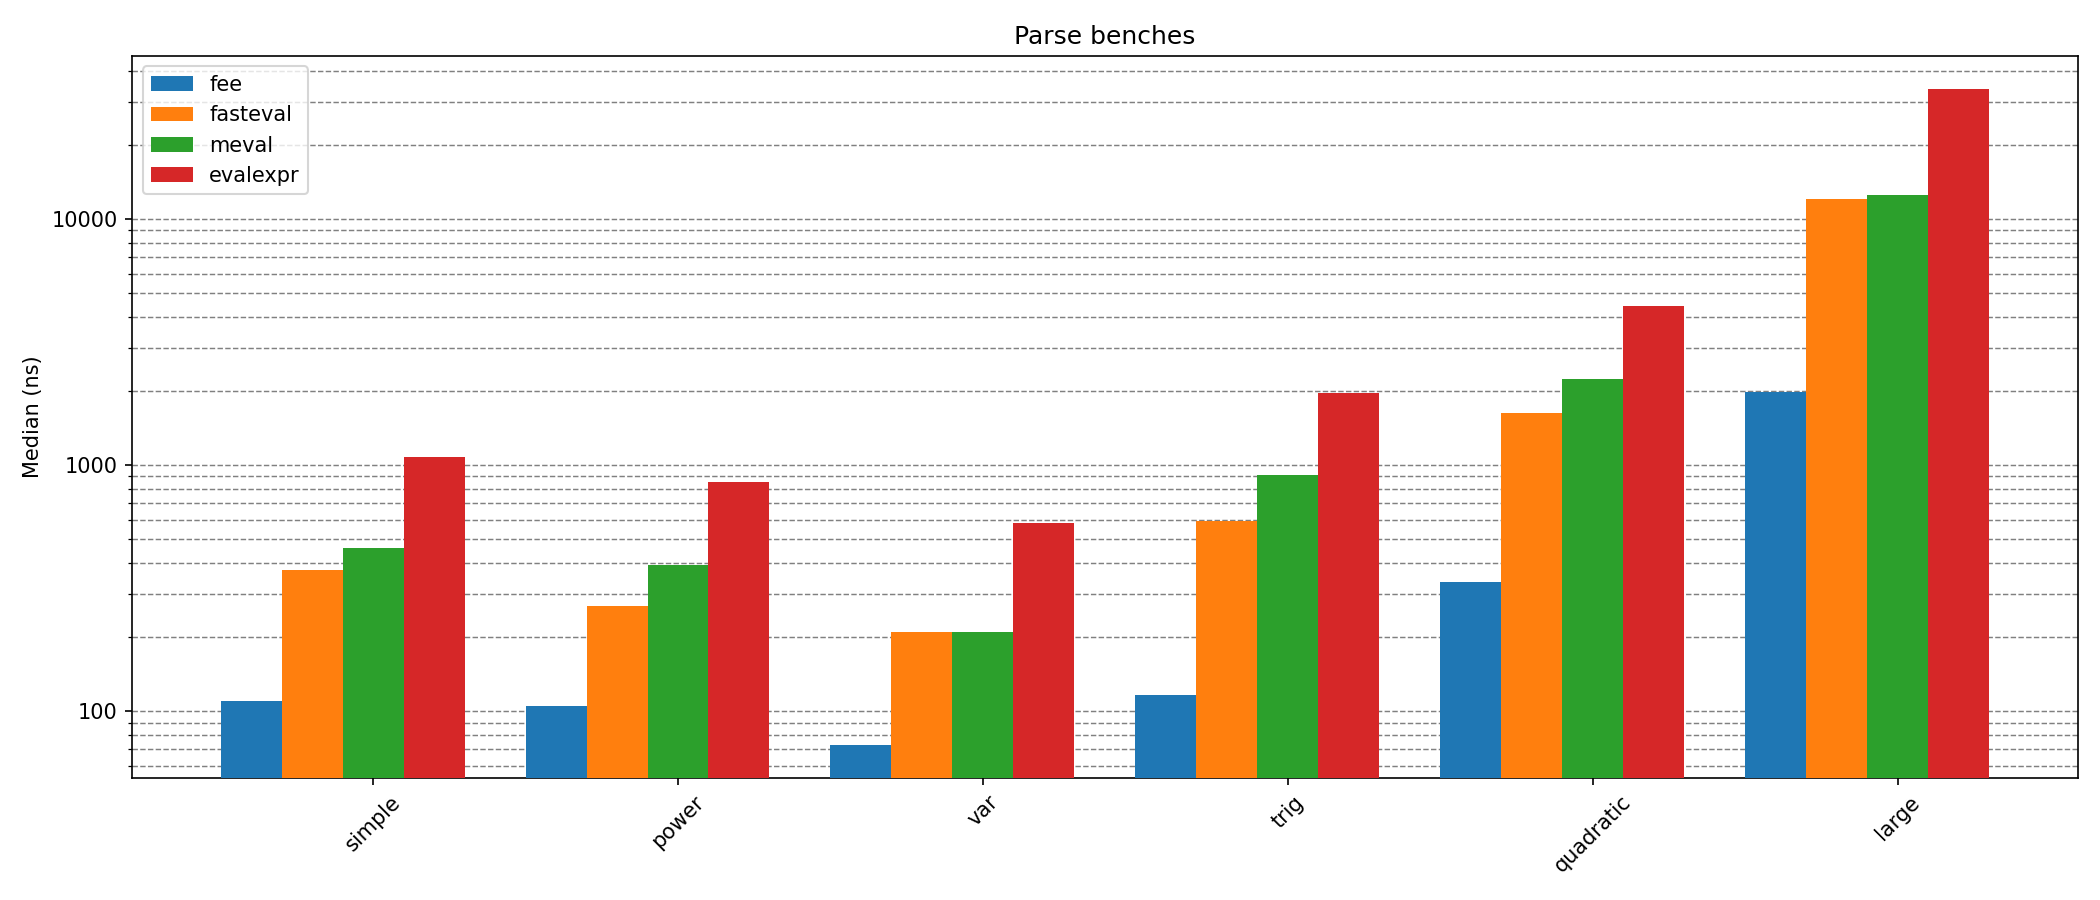
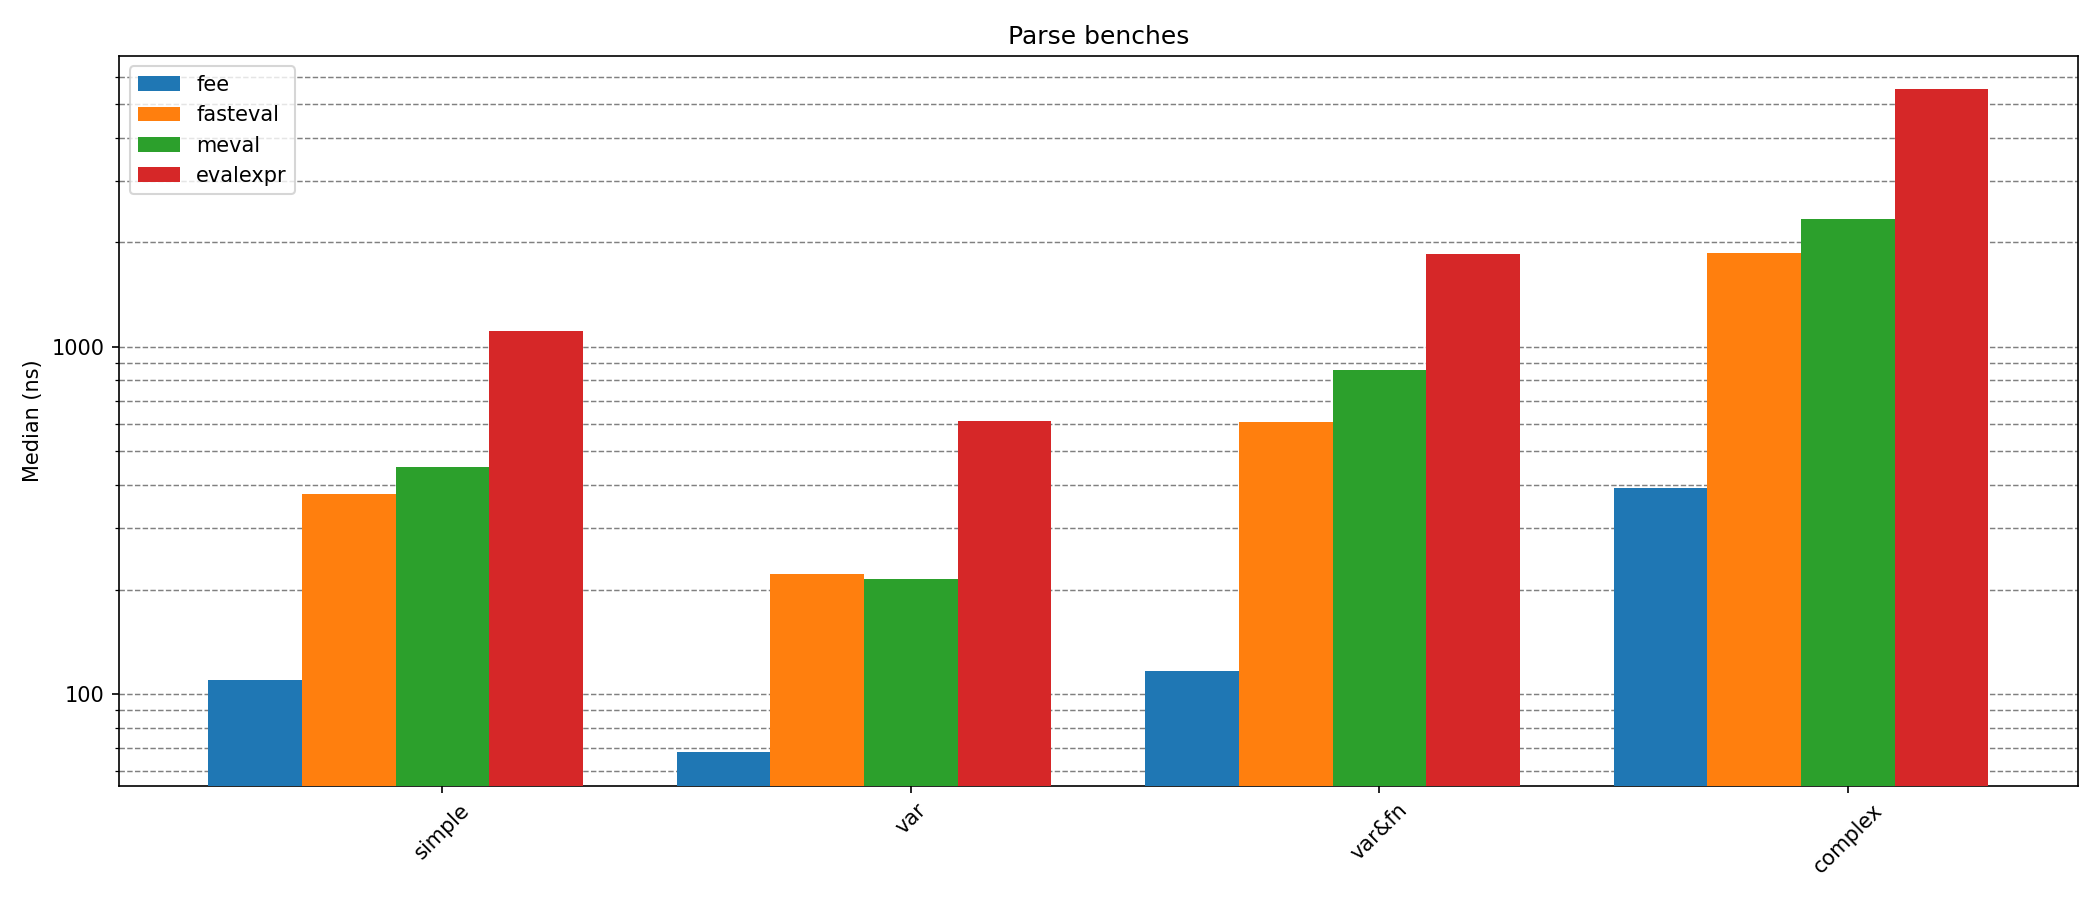
better cmp benched

diff --git a/benches/bench_cmp.rs b/benches/bench_cmp.rs
@@ -6,19 +6,16 @@ use fasteval::{Compiler, Evaler};
 use fee::{IndexedResolver, UContext, prelude::*};
 
 static SIMPLE_EXPR: &str = "3 * 3 - 3 / 3";
-static POWER_EXPR: &str = "2 ^ 3 ^ 4";
-static VAR_EXPR: &str = "x0 * 2";
-static TRIG_EXPR: &str = "s0(x0) + c0(x0)";
-static QUADRATIC_EXPR: &str = "(-x2 + (x2^2 - 4*x0*x1)^0.5) / (2*x0)";
-static LARGE_EXPR: &str = "((((87))) - 73) + (97 + (((15 / 55 * ((31)) + 35))) + (15 - (9)) - (39 / 26) / 20 / 91 + 27 / (33 * 26 + 28 - (7) / 10 + 66 * 6) + 60 / 35 - ((29) - (69) / 44 / (92)) / (89) + 2 + 87 / 47 * ((2)) * 83 / 98 * 42 / (((67)) * ((97))) / (34 / 89 + 77) - 29 + 70 * (20)) + ((((((92))) + 23 * (98) / (95) + (((99) * (41))) + (5 + 41) + 10) - (36) / (6 + 80 * 52 + (90))))";
+static V_EXPR: &str = "x0 * 2";
+static VF_EXPR: &str = "s0(x0) + c0(x0)";
+static COMPLEX_EXPR: &str = "(-x2 + s0(x2 ^ 2 - 4 * x0 * x1) ^ 0.5) / c0(2 * x0)";
 
 fn fee_context() -> UContext<
     IndexedResolver<Unlocked, f64>,
     IndexedResolver<Unlocked, ExprFn>,
     IndexedResolver<Locked, f64>,
     IndexedResolver<Locked, ExprFn>,
->
-{
+> {
     let mut v = IndexedResolver::new();
     v.add_id('x', 3);
     v.set('x', 0, 1.0);
@@ -27,29 +24,28 @@ fn fee_context() -> UContext<
 
     let mut f = IndexedResolver::new();
     f.add_id('s', 1);
-    f.set('s', 0, ExprFn::new(|args| args[0].sin())); // sin
+    f.set('s', 0, ExprFn::new(|args| args[0]));
     f.add_id('c', 1);
-    f.set('c', 0, ExprFn::new(|args| args[0].cos())); // cos
+    f.set('c', 0, ExprFn::new(|args| args[0]));
 
     Context::new(v, f)
 }
 
-fn evalexpr_context() -> HashMapContext<DefaultNumericTypes>
-{
+fn evalexpr_context() -> HashMapContext<DefaultNumericTypes> {
     let context: HashMapContext<DefaultNumericTypes> = context_map! {
         "x0" => float 1,
         "x1" => float 2,
         "x2" => float 3,
         "s0" => Function::new(|argument| {
             if let Ok(float) = argument.as_float() {
-                Ok(Value::Float((float as f64).sin()))
+                Ok(Value::Float(float))
             } else {
                 Err(EvalexprError::expected_number(argument.clone()))
             }
         }),
         "c0" => Function::new(|argument| {
             if let Ok(float) = argument.as_float() {
-                Ok(Value::Float((float as f64).cos()))
+                Ok(Value::Float(float))
             } else {
                 Err(EvalexprError::expected_number(argument.clone()))
             }
@@ -60,24 +56,22 @@ fn evalexpr_context() -> HashMapContext<DefaultNumericTypes>
     context
 }
 
-fn meval_context() -> meval::Context<'static>
-{
+fn meval_context() -> meval::Context<'static> {
     let mut ctx = meval::Context::empty();
     ctx.var("x0", 1.0);
     ctx.var("x1", 2.0);
     ctx.var("x2", 3.0);
 
-    ctx.func("s0", |x| x.sin());
-    ctx.func("c0", |x| x.cos());
+    ctx.func("s0", |x| x);
+    ctx.func("c0", |x| x);
 
     ctx
 }
 
-fn fasteval_namespace() -> fasteval::StrToCallbackNamespace<'static>
-{
+fn fasteval_namespace() -> fasteval::StrToCallbackNamespace<'static> {
     let mut ns = fasteval::StrToCallbackNamespace::new();
-    ns.insert("s0", Box::new(|x| x[0].sin()));
-    ns.insert("c0", Box::new(|x| x[0].cos()));
+    ns.insert("s0", Box::new(|x| x[0]));
+    ns.insert("c0", Box::new(|x| x[0]));
 
     ns.insert("x0", Box::new(|_| 1.0));
     ns.insert("x1", Box::new(|_| 2.0));
@@ -86,8 +80,7 @@ fn fasteval_namespace() -> fasteval::StrToCallbackNamespace<'static>
     ns
 }
 
-fn bench_parse(c: &mut Criterion, name: &str, expr: &str)
-{
+fn bench_parse(c: &mut Criterion, name: &str, expr: &str) {
     // evalexpr
     c.bench_function(&format!("cmp/parse/evalexpr/{}", name), |b| {
         use evalexpr::*;
@@ -117,8 +110,7 @@ fn bench_parse(c: &mut Criterion, name: &str, expr: &str)
 }
 
 // ----------------- EVALUATION -----------------
-fn bench_eval(c: &mut Criterion, name: &str, expr: &str)
-{
+fn bench_eval(c: &mut Criterion, name: &str, expr: &str) {
     // evalexpr
     c.bench_function(&format!("cmp/eval/evalexpr/{}", name), |b| {
         use evalexpr::*;
@@ -153,24 +145,18 @@ fn bench_eval(c: &mut Criterion, name: &str, expr: &str)
     });
 }
 
-fn parse_group(c: &mut Criterion)
-{
+fn parse_group(c: &mut Criterion) {
     bench_parse(c, "simple", SIMPLE_EXPR);
-    bench_parse(c, "power", POWER_EXPR);
-    bench_parse(c, "var", VAR_EXPR);
-    bench_parse(c, "trig", TRIG_EXPR);
-    bench_parse(c, "quadratic", QUADRATIC_EXPR);
-    bench_parse(c, "large", LARGE_EXPR);
+    bench_parse(c, "var", V_EXPR);
+    bench_parse(c, "var&fn", VF_EXPR);
+    bench_parse(c, "complex", COMPLEX_EXPR);
 }
 
-fn eval_group(c: &mut Criterion)
-{
+fn eval_group(c: &mut Criterion) {
     bench_eval(c, "simple", SIMPLE_EXPR);
-    bench_eval(c, "power", POWER_EXPR);
-    bench_eval(c, "var", VAR_EXPR);
-    bench_eval(c, "trig", TRIG_EXPR);
-    bench_eval(c, "quadratic", QUADRATIC_EXPR);
-    bench_eval(c, "large", LARGE_EXPR);
+    bench_eval(c, "var", V_EXPR);
+    bench_eval(c, "var&fn", VF_EXPR);
+    bench_eval(c, "complex", COMPLEX_EXPR);
 }
 
 criterion_group!(benches, parse_group, eval_group);

diff --git a/scripts/plot_benches.py b/scripts/plot_benches.py
@@ -19,7 +19,7 @@ class Bench:
 
 ##### MAIN #####
 
-cmp_categories = [ "simple", "power", "var", "trig", "quadratic", "large" ]
+cmp_categories = [ "simple", "var", "var&fn", "complex" ]
 cmp_types = [ "parse", "eval" ]
 cmp_crates = [ "fee", "fasteval", "meval", "evalexpr" ]
 

diff --git a/README.md b/README.md
@@ -162,8 +162,8 @@ To get **accurate and reproducible results**, it is recommended to run benchmark
 | CPU Model           | 12th Gen Intel® Core™ i9-12900HK   |
 | CPU Cores / Threads | 14 / 2 per core                    |
 | Online CPUs         | 0-19                               |
-| Isolated Cores      | 0-3                                |
-| CPU Frequency       | 400–2500 MHz                       |
+| Isolated Cores      | 0-11                               |
+| CPU Frequency       | 2500 MHz                           |
 | Turbo Boost         | Disabled                           |
 
 The following script executes the lib benches.
@@ -181,11 +181,9 @@ taskset -c $CORES cargo bench cmp
 ```
 
 - Simple Expr -> 3 \* 3 - 3 / 3
-- Power Expr -> 2 ^ 3 ^ 4
 - Var Expr -> x0 \* 2
-- Trig Expr -> s0(x0) + c0(x0)
-- Quadratic Expr -> (-x2 + (x2^2 - 4\*x0\*x1)^0.5) / (2\*x0)
-- Large Expr -> ((((87))) - 73) + (97 + (((15 / 55 _ ((31)) + 35))) + (15 - (9)) - (39 / 26) / 20 / 91 + 27 / (33 _ 26 + 28 - (7) / 10 + 66 _ 6) + 60 / 35 - ((29) - (69) / 44 / (92)) / (89) + 2 + 87 / 47 _ ((2)) _ 83 / 98 _ 42 / (((67)) _ ((97))) / (34 / 89 + 77) - 29 + 70 _ (20)) + ((((((92))) + 23 _ (98) / (95) + (((99) _ (41))) + (5 + 41) + 10) - (36) / (6 + 80 \* 52 + (90))))
+- Var and Fn Expr -> s0(x0) + c0(x0)
+- Complex Expr -> (-x2 + s0(x2 ^ 2 - 4 \* x0 \* x1) ^ 0.5) / c0(2 \* x0)
 
 ![Parse comparations benchmarks](plots/cmp_parse_bench.png)
 ![Eval comparations benchmarks](plots/cmp_eval_bench.png)
